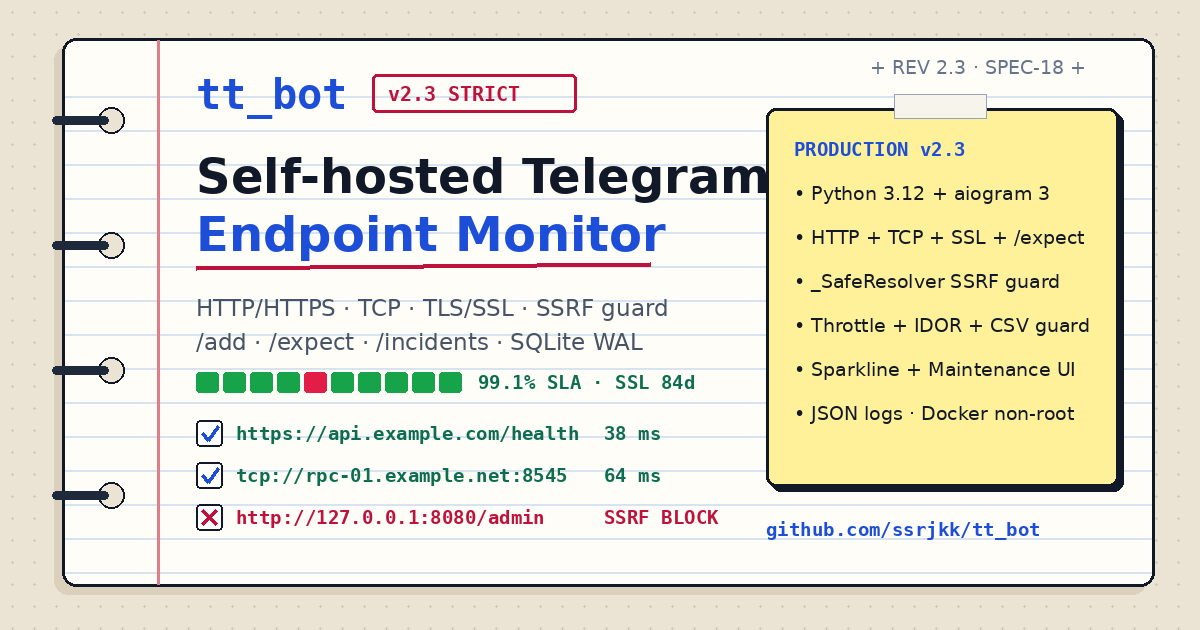
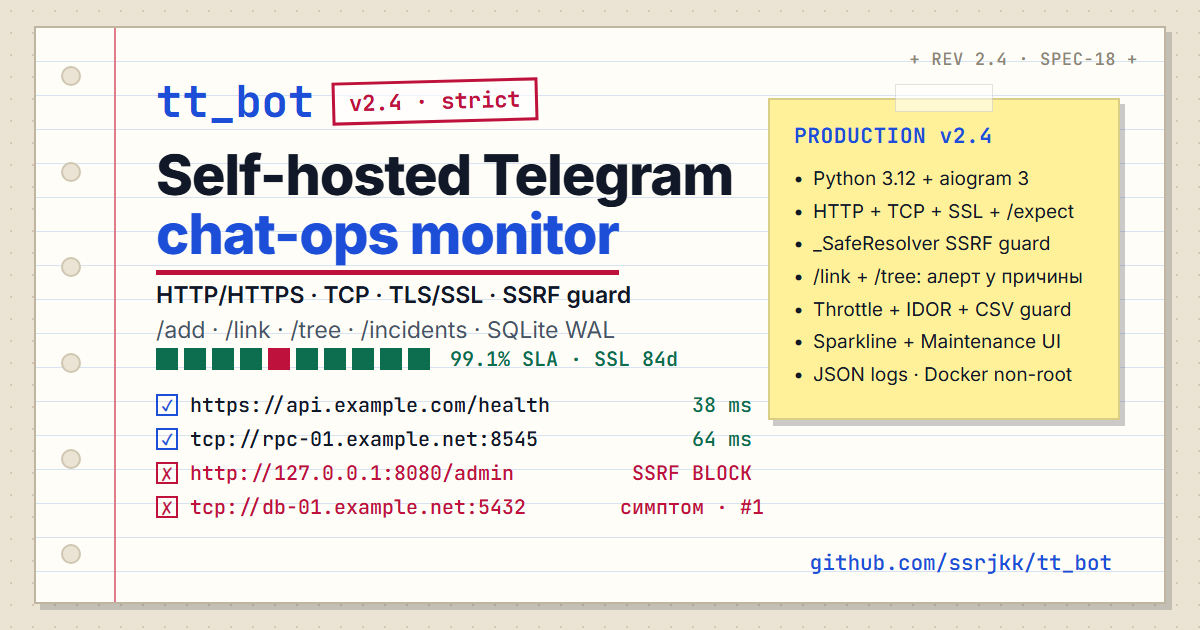
fix(docs): give the OG social card a versioned source, gate it with the landing (#31)
* fix(docs): give the OG social card a versioned source in the repo

docs/og-card.png is what Telegram and Twitter show for the product, and it was still
stamped v2.3 strict, REV 2.3, PRODUCTION v2.3 with the pre-chat-ops headline
'Self-hosted Telegram Endpoint Monitor'. The landing got a drift gate in the previous
commit; the card could not get one because it had no text source - the PNG was rendered
somewhere outside the repository and committed by hand.

docs/og-card.html is now that source (1200x630, noindex, render command in the header
comment), rebuilt from the landing's own tokens, and the same gate reads it: stamp, REV
and PRODUCTION must all equal BOT_VERSION. The card content moved with it - chat-ops
monitor headline, /link + /tree in the command line and the panel, and a fourth row
showing a symptom child attributed to cause #1.

* docs: describe the OG card source and its gate

CHANGELOG records the drift and the gate; DESIGN.md carries the render command so the
next release regenerates the PNG instead of repainting it by hand.

diff --git a/docs/og-card.html b/docs/og-card.html
@@ -1,0 +1,130 @@
+<!doctype html>
+<!--
+  Исходник социальной карточки docs/og-card.png (1200×630), а не страница сайта.
+  Рендер (тот же Chromium, что и на десктопе):
+
+    chrome --headless=new --disable-gpu --hide-scrollbars \
+      --window-size=1200,630 --screenshot=docs/og-card.png docs/og-card.html
+
+  Версия в карточке проверяется тем же гейтом, что и лендинг:
+  tests/test_probes.py::test_landing_page_version_claims_match_the_bot.
+-->
+<html lang="ru">
+<head>
+<meta charset="utf-8">
+<meta name="robots" content="noindex">
+<link rel="preconnect" href="https://fonts.googleapis.com">
+<link href="https://fonts.googleapis.com/css2?family=Caveat:wght@500;700&family=Inter:wght@400;500;600;700;800&family=JetBrains+Mono:wght@500;600;700&display=swap" rel="stylesheet">
+<style>
+  :root{
+    --desk:#ebe4d4; --desk-dot:#d2c8b4; --paper:#fffdf7; --sheet-border:#bfb5a0;
+    --line:#d8e3f2; --margin:#df7d8a; --ink:#111827; --muted:#475467;
+    --pen:#1d4ed8; --red:#be123c; --green:#0d6e4f; --sticky-yellow:#fff199;
+    --mono:'JetBrains Mono',ui-monospace,Consolas,monospace;
+    --sans:'Inter',system-ui,-apple-system,sans-serif;
+    --hand:'Caveat','Comic Sans MS',cursive;
+  }
+  *{margin:0;padding:0;box-sizing:border-box}
+  html,body{width:1200px;height:630px;overflow:hidden}
+  body{
+    position:relative;background:var(--desk);font-family:var(--sans);color:var(--ink);
+    background-image:radial-gradient(var(--desk-dot) 1.4px,transparent 1.4px);
+    background-size:22px 22px;
+  }
+  .sheet{
+    position:absolute;left:34px;top:26px;width:1132px;height:578px;
+    background:var(--paper);border:2px solid var(--sheet-border);
+    box-shadow:6px 6px 0 rgba(17,24,39,.18);
+    background-image:repeating-linear-gradient(180deg,transparent 0 33px,var(--line) 33px 34px);
+  }
+  .sheet::before{content:"";position:absolute;left:78px;top:0;bottom:0;width:2px;background:var(--margin)}
+  .holes{position:absolute;left:22px;top:0;bottom:0;width:26px;display:flex;flex-direction:column;
+    justify-content:space-around;align-items:center}
+  .hole{width:20px;height:20px;border-radius:50%;background:var(--desk);border:2px solid #cfc6b2}
+  .rev{position:absolute;right:26px;top:20px;font-family:var(--mono);font-size:17px;color:#8b8574;letter-spacing:.04em}
+  .head{position:absolute;left:120px;top:44px;display:flex;align-items:center;gap:18px}
+  .brand{font-family:var(--mono);font-weight:700;font-size:44px;color:var(--pen)}
+  .stamp{
+    font-family:var(--mono);font-weight:700;font-size:22px;color:var(--red);
+    border:3px solid var(--red);padding:4px 14px;transform:rotate(-1.5deg);background:rgba(255,255,255,.6)
+  }
+  h1{position:absolute;left:120px;top:118px;font-size:56px;line-height:1.06;font-weight:800;letter-spacing:-.02em}
+  h1 .accent{color:var(--pen);border-bottom:5px solid var(--red);padding-bottom:2px}
+  .sub{position:absolute;left:120px;top:250px;font-size:23px;line-height:1.5;color:var(--muted)}
+  .sub b{color:var(--ink);font-weight:600}
+  .bars{position:absolute;left:120px;top:318px;display:flex;align-items:center;gap:6px}
+  .sq{width:22px;height:22px;background:var(--green)}
+  .sq.bad{background:var(--red)}
+  .sla{margin-left:14px;font-family:var(--mono);font-size:20px;color:var(--green);font-weight:600}
+  ul.rows{position:absolute;left:120px;top:360px;width:596px;list-style:none;font-family:var(--mono);font-size:20px}
+  ul.rows li{display:flex;align-items:center;gap:12px;height:34px}
+  .box{width:22px;height:22px;border:2px solid var(--pen);display:flex;align-items:center;justify-content:center;
+    color:var(--pen);font-size:15px;font-weight:700}
+  .box.no{border-color:var(--red);color:var(--red)}
+  .url{color:var(--ink)}
+  .url.down{color:var(--red)}
+  .ms{margin-left:auto;color:var(--green);width:132px;text-align:right;white-space:nowrap}
+  .ms.bad{color:var(--red)}
+  .note{
+    position:absolute;right:44px;top:70px;width:352px;background:var(--sticky-yellow);
+    border:2px solid rgba(17,24,39,.16);box-shadow:5px 6px 0 rgba(17,24,39,.22);padding:22px 24px 26px
+  }
+  .note::before{content:"";position:absolute;left:50%;top:-16px;transform:translateX(-50%);
+    width:96px;height:26px;background:rgba(255,255,255,.55);border:1px solid rgba(17,24,39,.12)}
+  .note h2{font-family:var(--mono);font-size:21px;color:var(--pen);letter-spacing:.03em;margin-bottom:14px}
+  .note li{list-style:none;font-size:19px;line-height:1.72;display:flex;gap:10px}
+  .note li::before{content:"•";color:var(--ink);font-weight:700}
+  .handle{position:absolute;right:52px;bottom:26px;font-family:var(--mono);font-size:21px;color:var(--pen)}
+</style>
+</head>
+<body>
+  <div class="sheet">
+    <div class="holes">
+      <span class="hole"></span><span class="hole"></span><span class="hole"></span>
+      <span class="hole"></span><span class="hole"></span><span class="hole"></span>
+    </div>
+    <div class="rev">+ REV 2.4 · SPEC-18 +</div>
+
+    <div class="head">
+      <span class="brand">tt_bot</span>
+      <span class="stamp">v2.4 · strict</span>
+    </div>
+
+    <h1>Self-hosted Telegram<br><span class="accent">chat-ops monitor</span></h1>
+
+    <p class="sub">
+      <b>HTTP/HTTPS · TCP · TLS/SSL · SSRF guard</b><br>
+      /add · /link · /tree · /incidents · SQLite WAL
+    </p>
+
+    <div class="bars">
+      <span class="sq"></span><span class="sq"></span><span class="sq"></span><span class="sq"></span>
+      <span class="sq bad"></span><span class="sq"></span><span class="sq"></span><span class="sq"></span>
+      <span class="sq"></span><span class="sq"></span>
+      <span class="sla">99.1% SLA · SSL 84d</span>
+    </div>
+
+    <ul class="rows">
+      <li><span class="box">✓</span><span class="url">https://api.example.com/health</span><span class="ms">38 ms</span></li>
+      <li><span class="box">✓</span><span class="url">tcp://rpc-01.example.net:8545</span><span class="ms">64 ms</span></li>
+      <li><span class="box no">✗</span><span class="url down">http://127.0.0.1:8080/admin</span><span class="ms bad">SSRF BLOCK</span></li>
+      <li><span class="box no">✗</span><span class="url down">tcp://db-01.example.net:5432</span><span class="ms bad">симптом · #1</span></li>
+    </ul>
+
+    <div class="note">
+      <h2>PRODUCTION v2.4</h2>
+      <ul>
+        <li>Python 3.12 + aiogram 3</li>
+        <li>HTTP + TCP + SSL + /expect</li>
+        <li>_SafeResolver SSRF guard</li>
+        <li>/link + /tree: алерт у причины</li>
+        <li>Throttle + IDOR + CSV guard</li>
+        <li>Sparkline + Maintenance UI</li>
+        <li>JSON logs · Docker non-root</li>
+      </ul>
+    </div>
+
+    <div class="handle">github.com/ssrjkk/tt_bot</div>
+  </div>
+</body>
+</html>

diff --git a/tests/test_probes.py b/tests/test_probes.py
@@ -63,16 +63,19 @@ def test_prober_version_is_one_constant_shared_with_docs():
 
 
 def test_landing_page_version_claims_match_the_bot():
-    """Pages-лендинг живёт отдельно от README: без гейта он вечно кричит про прошлую версию."""
+    """Pages-лендинг и OG-карточка живут отдельно от README: без гейта они кричат про прошлую версию."""
     root = Path(__file__).resolve().parents[1]
-    landing = (root / "docs" / "index.html").read_text(encoding="utf-8")
-
-    claims = {
-        "stamp": set(re.findall(r"\bv(\d+\.\d+)\b", landing)),
-        "registration": set(re.findall(r"REV (\d+\.\d+)", landing)),
-        "schema.org": set(re.findall(r'"softwareVersion":"(\d+\.\d+)', landing)),
+    stamp = r"\bv(\d+\.\d+)\b"
+    rev = r"REV (\d+\.\d+)"
+    surfaces = {
+        "index.html": (stamp, rev, r'"softwareVersion":"(\d+\.\d+)'),
+        # Пиксели PNG не проверить, поэтому гейт читает исходник карточки.
+        "og-card.html": (stamp, rev, r"PRODUCTION v(\d+\.\d+)"),
     }
-    assert claims == {k: {BOT_VERSION} for k in claims}, claims
+    for name, patterns in surfaces.items():
+        text = (root / "docs" / name).read_text(encoding="utf-8")
+        claims = {pat: set(re.findall(pat, text)) for pat in patterns}
+        assert claims == {pat: {BOT_VERSION} for pat in patterns}, (name, claims)
 
 
 @pytest.mark.asyncio

diff --git a/docs/DESIGN.md b/docs/DESIGN.md
@@ -12,4 +12,4 @@
 - **Клавиатурная навигация**: `⌘K` / `Ctrl+K` открывает Command Palette; `R` — прогон проверок, `T` — переключение темы, `I` — смена чернил, `Esc` — закрытие модалок.
 - **Zero-CLS и `tabular-nums`**: все счётчики SLA, P50, P95 и задержек используют `font-variant-numeric: tabular-nums`.
 - **Обратная связь**: стек тактильных тостов, кликабельные диагностические карточки строк и график задержки с линией SLA `100 мс` и hover-точками.
-- **SEO & Accessibility**: чистая статика без бандлера, `prefers-reduced-motion: reduce`, `:focus-visible`, один `<h1>` на страницу, JSON-LD `SoftwareApplication` и карточка `docs/og-card.png` (1200×630).
+- **SEO & Accessibility**: чистая статика без бандлера, `prefers-reduced-motion: reduce`, `:focus-visible`, один `<h1>` на страницу, JSON-LD `SoftwareApplication` и карточка `docs/og-card.png` (1200×630). Её исходник — `docs/og-card.html` с `noindex`; рендер: `chrome --headless=new --hide-scrollbars --window-size=1200,630 --screenshot=docs/og-card.png docs/og-card.html`. Штампы обеих витрин сверяет `test_landing_page_version_claims_match_the_bot`, поэтому PNG не может отстать от релиза незаметно.

diff --git a/CHANGELOG.md b/CHANGELOG.md
@@ -50,6 +50,11 @@
   (штамп, `REV`, `softwareVersion` в schema.org и тексты узлов), тогда как `BOT_VERSION`
   уже был `2.4`; `test_landing_page_version_claims_match_the_bot` сверяет все три шаблона
   с константой, поэтому следующий релиз обязан обновить и лендинг.
+- **OG-карточка больше не рисует прошлый релиз.** `docs/og-card.png` собиралась руками и
+  осталась с `v2.3 · strict`, `REV 2.3`, `PRODUCTION v2.3` и заголовком «Endpoint Monitor» —
+  а это именно то, что видно в превью ссылки в Telegram и Twitter. У карточки появился
+  исходник `docs/og-card.html` (`noindex`, команда рендера в комментарии и в `docs/DESIGN.md`),
+  он же закрыт тем же гейтом по трём штампам, а в список фич встал `/link` + `/tree`.
 
 ### Changed
 - Проект называется чат-ops монитором, а не «Endpoint & Task Monitor»: заголовки
